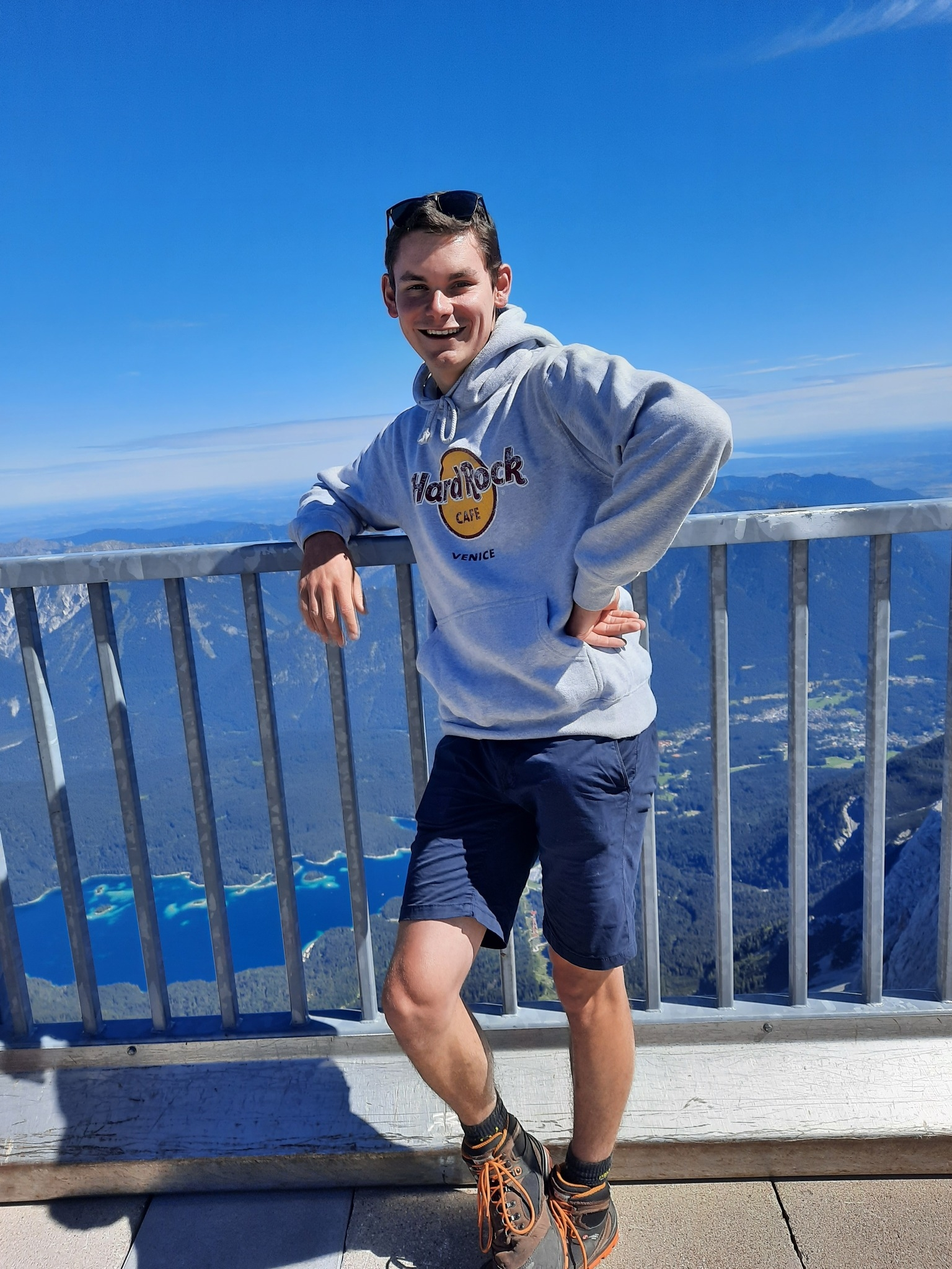
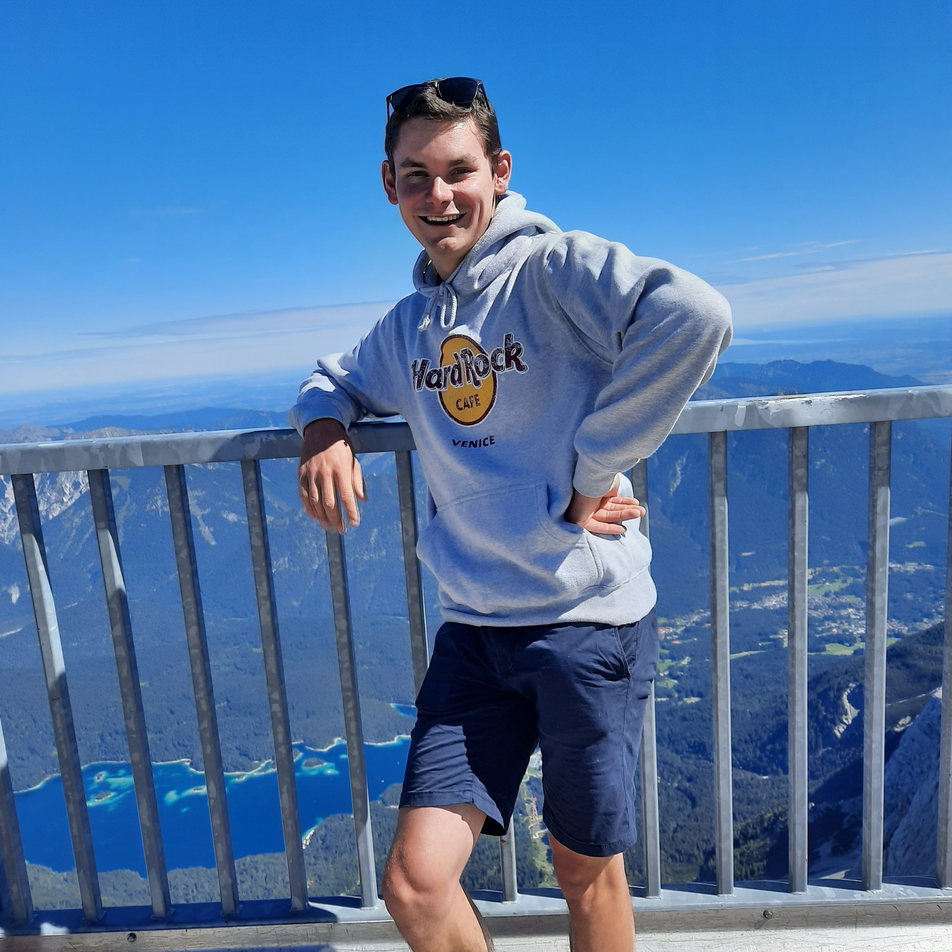
update new bestuursleden

diff --git a/src/pages/bestuur/index.jsx b/src/pages/bestuur/index.jsx
@@ -3,8 +3,10 @@ import { Helmet } from "react-helmet-async";
 import "./style.css";
 import Bestuurslid from "../../components/bestuurslid/bestuurslid";
 import mateo from "../../images/bestuur/mateo.jpg";
-import cassie from "../../images/bestuur/Cassie.jpg";
-import ferre from "../../images/bestuur/Ferre.jpg";
+import adeline from "../../images/bestuur/adeline.jpg";
+import jules from "../../images/bestuur/jules.jpg";
+import katoo from "../../images/bestuur/katoo.jpg";
+import jarne from "../../images/bestuur/jarne.jpg";
 import rosalie from "../../images/bestuur/Rosalie.jpg";
 import simon from "../../images/bestuur/simon.jpg";
 import backer from "../../images/bestuur/backer.jpg";
@@ -15,68 +17,82 @@ const Bestuur = () => {
       <Helmet>
         <title>Bestuur KLJ Merkem - Contactgegevens Jeugdbeweging Merkem</title>
         <meta
-          name='description'
-          content='Leer het bestuur van KLJ Merkem kennen! Contactgegevens van de bestuursleden van jeugdbeweging Merkem. Voorzitter, kassier, secretaris en meer.'
+          name="description"
+          content="Leer het bestuur van KLJ Merkem kennen! Contactgegevens van de bestuursleden van jeugdbeweging Merkem. Voorzitter, kassier, secretaris en meer."
         />
         <meta
-          name='keywords'
-          content='KLJ Merkem bestuur, bestuur jeugdbeweging Merkem, contact KLJ Merkem, bestuursleden Merkem, voorzitter KLJ Merkem'
+          name="keywords"
+          content="KLJ Merkem bestuur, bestuur jeugdbeweging Merkem, contact KLJ Merkem, bestuursleden Merkem, voorzitter KLJ Merkem"
         />
-        <link rel='canonical' href='https://kljmerkem.be/bestuur' />
+        <link rel="canonical" href="https://kljmerkem.be/bestuur" />
         <meta
-          property='og:title'
-          content='Bestuur KLJ Merkem - Contactgegevens'
+          property="og:title"
+          content="Bestuur KLJ Merkem - Contactgegevens"
         />
         <meta
-          property='og:description'
-          content='Leer het bestuur van KLJ Merkem kennen! Contactgegevens van de bestuursleden.'
+          property="og:description"
+          content="Leer het bestuur van KLJ Merkem kennen! Contactgegevens van de bestuursleden."
         />
-        <meta property='og:url' content='https://kljmerkem.be/bestuur' />
+        <meta property="og:url" content="https://kljmerkem.be/bestuur" />
       </Helmet>
       <div>
-        <h1 className='text-center'>Bestuur KLJ Merkem</h1>
+        <h1 className="text-center">Bestuur KLJ Merkem</h1>
       </div>
-      <div className='bestuursleden flyinleft'>
+      <div className="bestuursleden flyinleft">
         <Bestuurslid
-          naam='Mateo Gheeraert'
-          taken='Voorzitter'
-          geboortedatum='23/01/2004'
-          telefoon='0478751599'
+          naam="Mateo Gheeraert"
+          taken="Voorzitter"
+          geboortedatum="23/01/2004"
+          telefoon="0478751599"
           foto={mateo}
         ></Bestuurslid>
         <Bestuurslid
-          naam='Mathias Debacker'
-          taken='Kassier'
-          geboortedatum='23/04/2007'
-          telefoon='0477841400'
+          naam="Mathias Debacker"
+          taken="Kassier"
+          geboortedatum="23/04/2007"
+          telefoon="0477841400"
           foto={backer}
         ></Bestuurslid>
         <Bestuurslid
-          naam='Michiel Castryck'
-          taken='Afdelingsecretaris, Kassier'
-          geboortedatum='12/03/2004'
-          telefoon='0499623063'
-          foto={cassie}
+          naam="Katoo Vannieuwkerke"
+          taken="Afdelingsecretaris"
+          geboortedatum="21/02/2002"
+          telefoon="0479086358"
+          foto={katoo}
         ></Bestuurslid>
         <Bestuurslid
-          naam='Ferre Dewaele'
-          taken='PR'
-          geboortedatum='12/09/2002'
-          telefoon='0471233536'
-          foto={ferre}
-        ></Bestuurslid>
-        <Bestuurslid
-          naam='Simon Debergh'
-          taken='Gewestbestuurslid, Drank-verantwoordelijke'
-          geboortedatum='25/04/2003'
-          telefoon='0470432809'
+          naam="Simon Debergh"
+          taken="Gewestbestuurslid, Drank-verantwoordelijke"
+          geboortedatum="25/04/2003"
+          telefoon="0470432809"
           foto={simon}
         ></Bestuurslid>
         <Bestuurslid
-          naam='Rosalie Capoen'
-          taken='Lokaal Verantwoordelijke'
-          geboortedatum='02/01/2004'
-          telefoon='0476447575'
+          naam="Adeline Van Gelder"
+          taken="Notulist, PR"
+          geboortedatum="20/11/2008"
+          telefoon="0471608020"
+          foto={adeline}
+        ></Bestuurslid>
+        <Bestuurslid
+          naam="Jules Lavaeart"
+          taken="Communicatie-verantwoordelijke"
+          geboortedatum="12/10/2008"
+          telefoon="0471259066"
+          foto={jules}
+        ></Bestuurslid>
+        <Bestuurslid
+          naam="Jarne Lavaert"
+          taken="Berging-verantwoordelijke"
+          geboortedatum="28/01/2007"
+          telefoon="0470324160"
+          foto={jarne}
+        ></Bestuurslid>
+        <Bestuurslid
+          naam="Rosalie Capoen"
+          taken="Lokaal Verantwoordelijke"
+          geboortedatum="02/01/2004"
+          telefoon="0476447575"
           foto={rosalie}
         ></Bestuurslid>
       </div>
